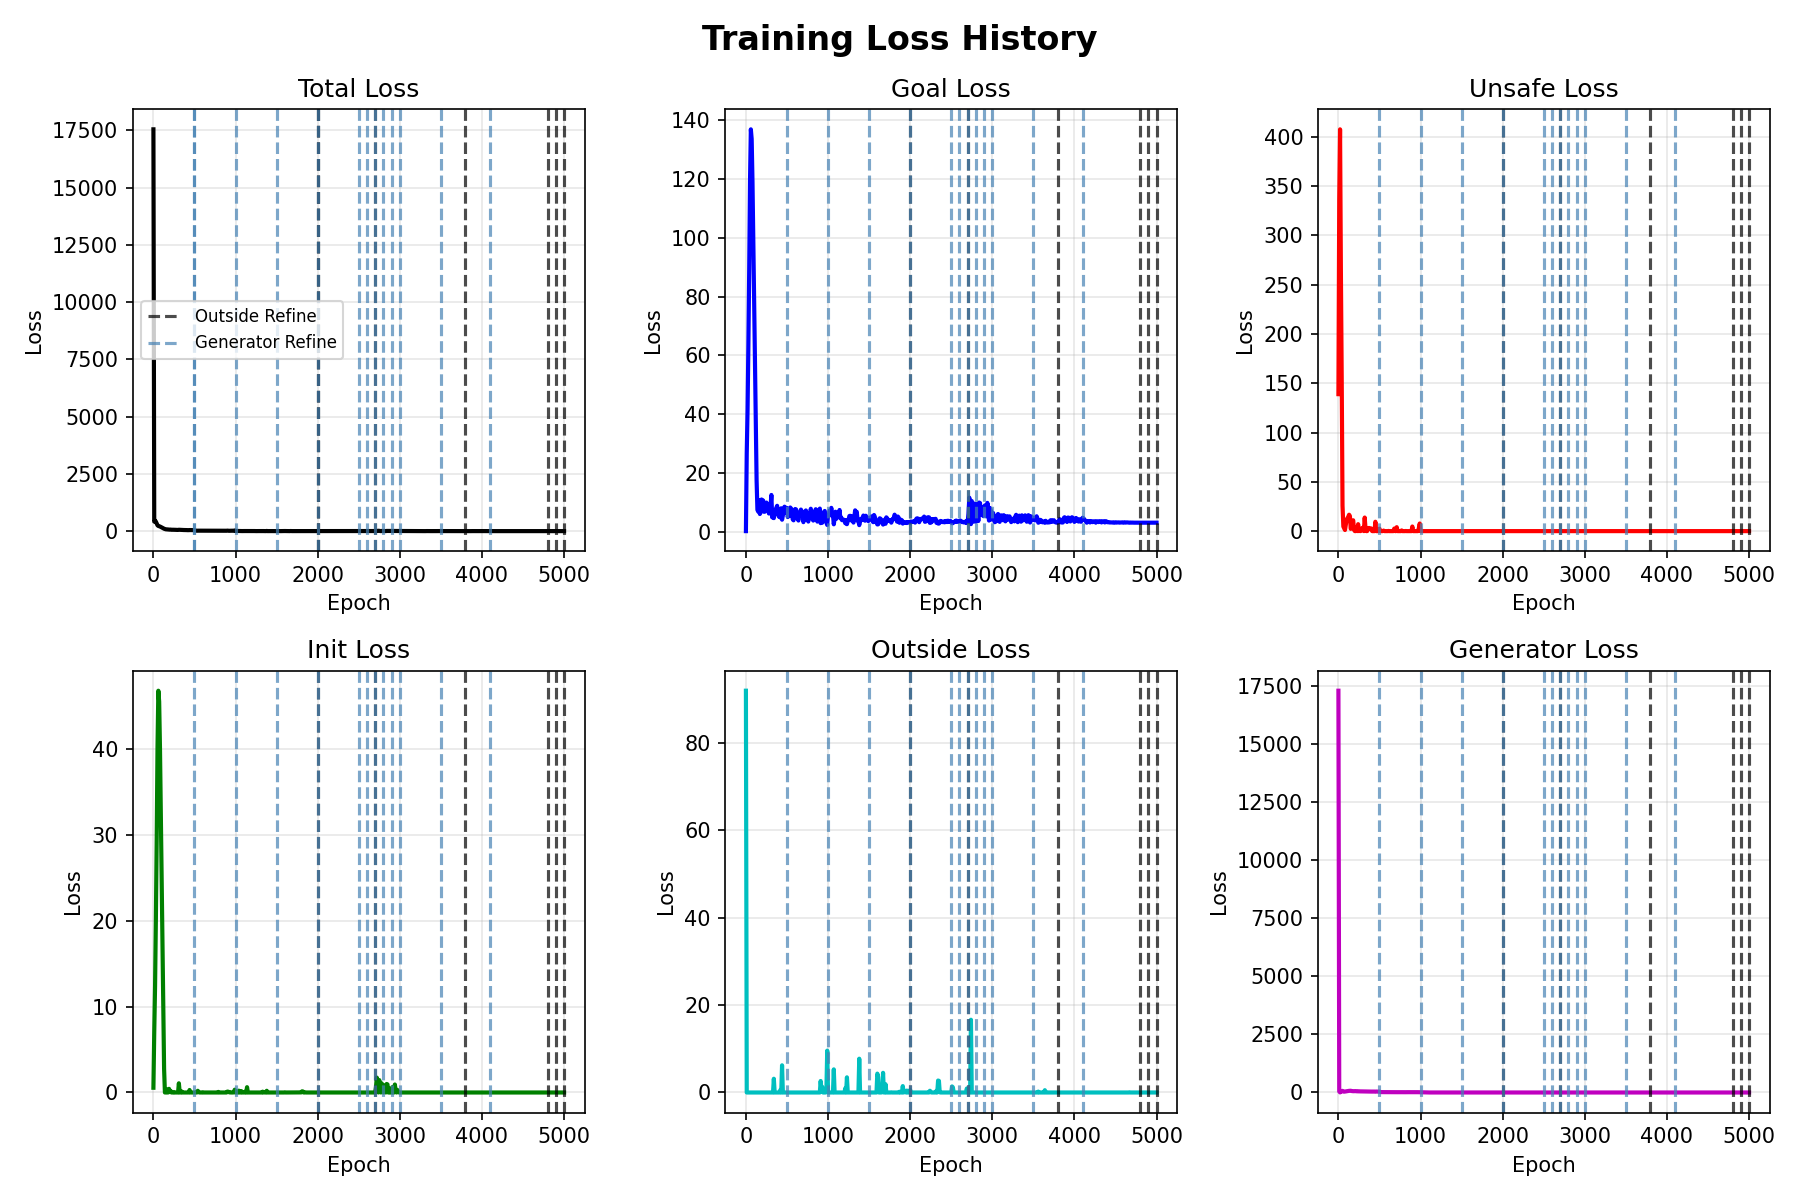
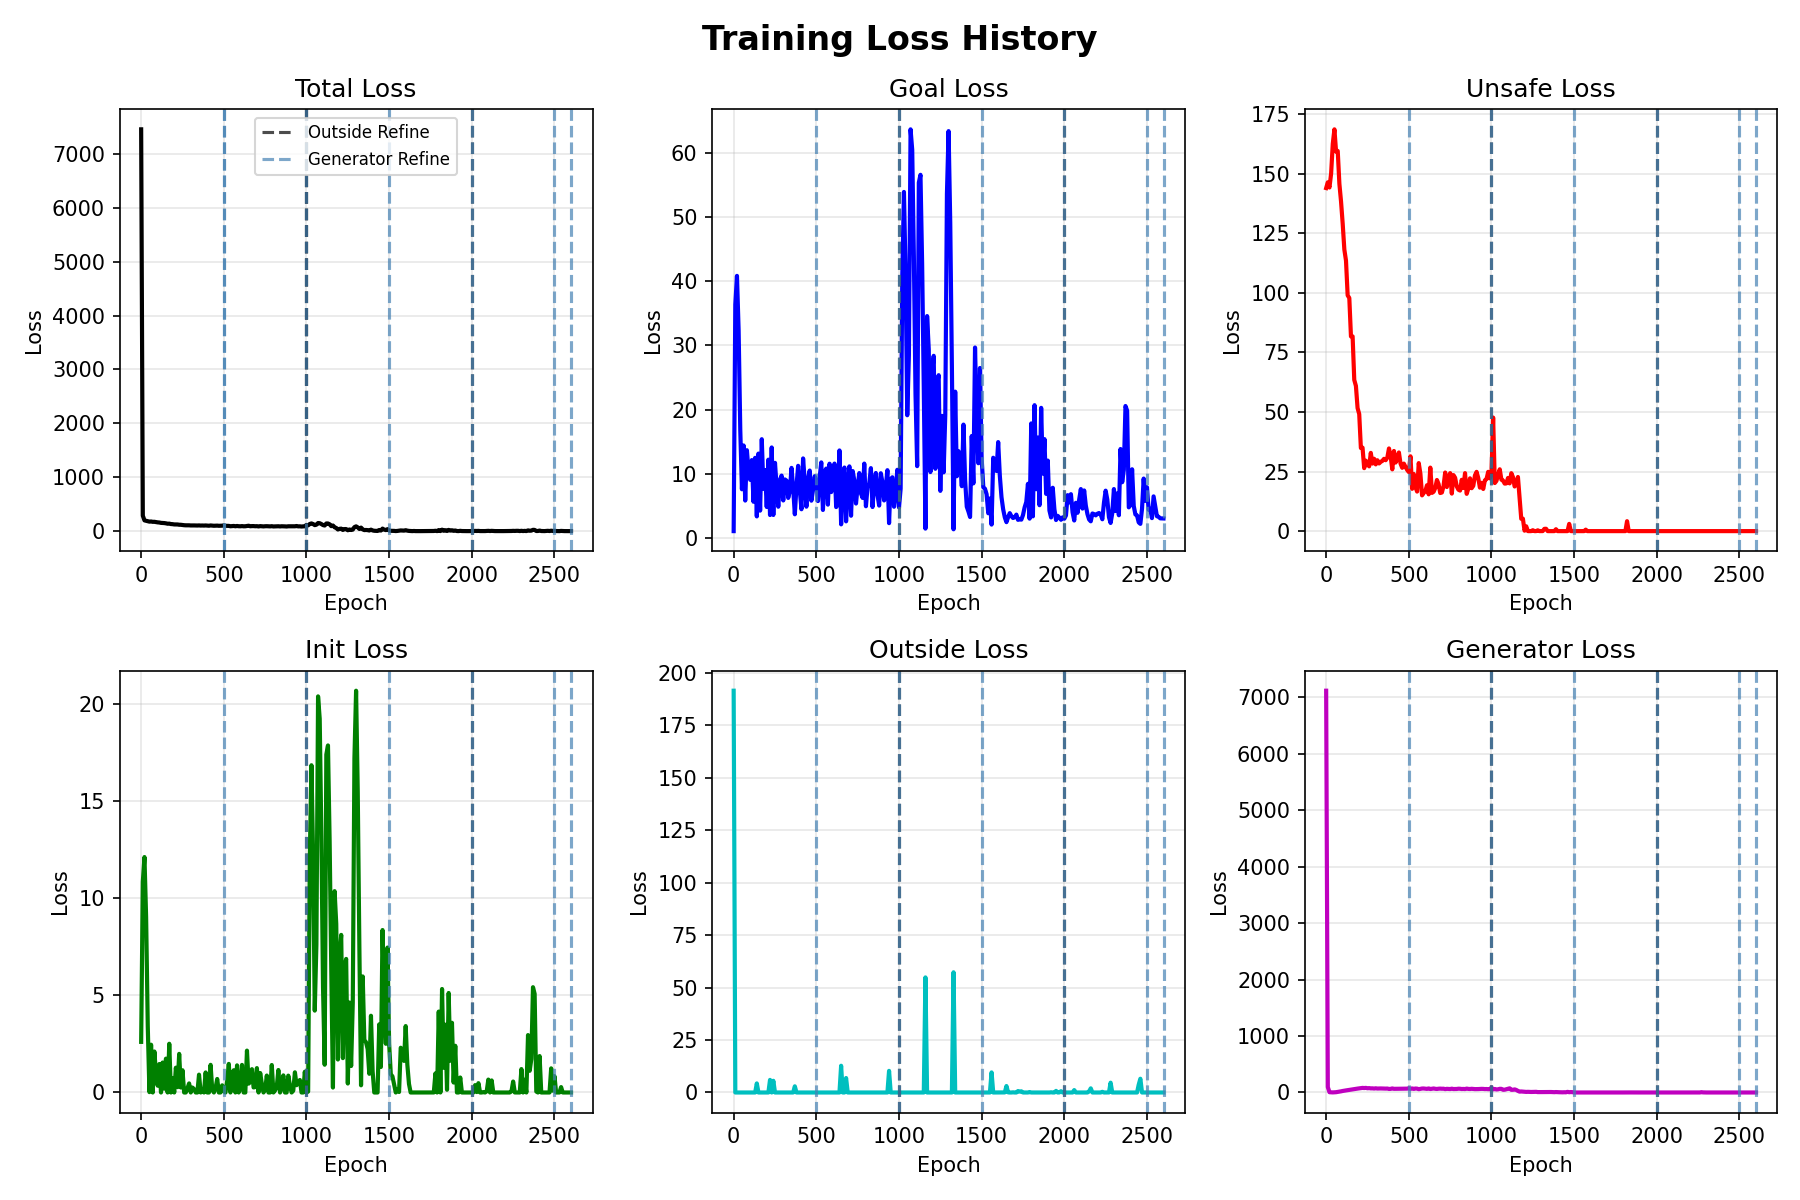
GBM Verification works in 2603e

Changed region(s): [[0.0311, 0.0617, 0.6533, 0.9867], [0.6844, 0.0617, 0.9956, 0.9867]]

diff --git a/refactor/main.py b/refactor/main.py
@@ -714,7 +714,7 @@ def main():
     print("="*80)
 
     # Option 2: Neural network control (implements same K @ x)
-    u_nn = LinearControlNN(prior_knowledge=False)
+    u_nn = LinearControlNN(prior_knowledge=True)
 
     def f_ol(x: torch.Tensor, u: torch.Tensor = None) -> torch.Tensor:
         # Batch
